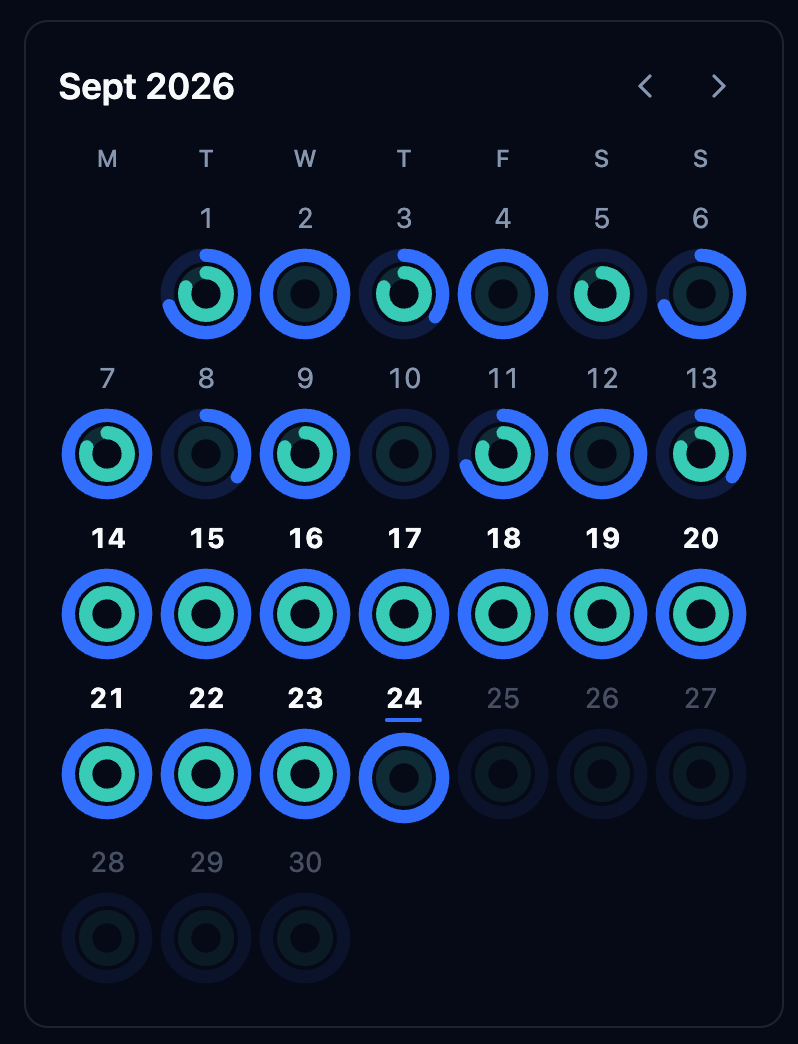
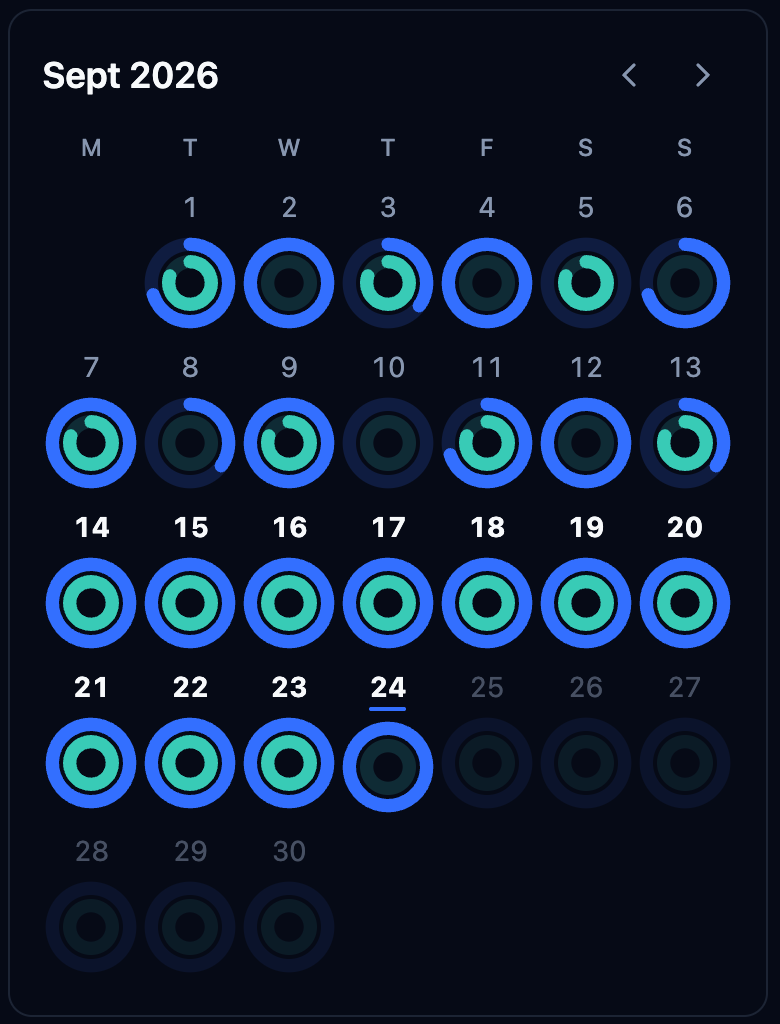
docs: add summary screenshots and align README with the code

diff --git a/README.md b/README.md
@@ -24,7 +24,14 @@ Import the stylesheet once, e.g. in your root layout:
 import "react-goal-calendar/style.css";
 ```
 
-The stylesheet contains no CSS reset (no Tailwind preflight), so your app's base styles are left alone. Components are marked `"use client"` and work in Next.js App Router server components.
+The stylesheet contains no CSS reset (no Tailwind preflight), so your app's base styles are left alone.
+Its rules sit in CSS layers (`theme`, `utilities`), and unlayered CSS always beats layered CSS, so a
+global unlayered rule such as `button { … }` or `td { padding: … }` in your app also restyles the
+components. Put such rules in a layer (e.g. `@layer base`) or scope them to your own markup.
+
+Components are marked `"use client"`, so you can render them from Next.js App Router Server
+Components. Function props (`onMonthChange`, `onSettingsClick`, `renderTooltip`, `formatDayLabel`)
+can't cross from a Server Component, so pass those from a Client Component.
 
 ## Theming
 
@@ -102,6 +109,10 @@ const goals: GcGoal[] = [
   { id: "emails", label: "Emails", target: 10 },
 ];
 
+const openGoalSettings = () => {
+  // Open your goals dialog.
+};
+
 <GcCard>
   <GcMonthCalendar
     goals={goals}
@@ -110,6 +121,8 @@ const goals: GcGoal[] = [
       "2026-09-02": { calls: 8 },
     }}
     today="2026-09-24"
+    legend
+    onSettingsClick={openGoalSettings}
   />
 </GcCard>;
 ```
@@ -166,11 +179,38 @@ const [goalsOpen, setGoalsOpen] = useState(false);
 ```
 
 `onSettingsClick` is a function, so in the Next.js App Router pass it from a Client Component. From
-a Server Component, put a Client Component button in `actions` instead.
+a Server Component, put a Client Component button in `actions` instead:
+
+```tsx
+// refresh-button.tsx
+"use client";
+import { useRouter } from "next/navigation";
+
+export function RefreshButton() {
+  const router = useRouter();
+  return (
+    <button type="button" onClick={() => router.refresh()}>
+      Refresh
+    </button>
+  );
+}
+```
+
+```tsx
+// page.tsx (Server Component): router.refresh() re-runs it, so values are recomputed
+<GcMonthCalendar
+  goals={goals}
+  values={values}
+  today={today}
+  legend
+  actions={<RefreshButton />}
+/>
+```
 
 Other `<div>` props pass through to the root, and `ref` points at it.
 
-`GcGoal` is `{ id: string; label: string; target: number; unit?: string }`.
+`GcGoal` is `{ id: string; label: string; target: number; unit?: string }`. `unit` (e.g. `"h"`)
+follows the amounts in the legend, the tooltip and the accessible text.
 
 - A ring shows `done / target` and is full once the target is reached. The accessible text keeps the
   real amount ("Calls 25 of 20").
@@ -181,7 +221,7 @@ Other `<div>` props pass through to the root, and `ref` points at it.
   All goals met." (English by default; pass `formatDayLabel` and `labels` to translate. Dates and
   numbers follow `locale`). `formatDayLabel` gets the date already formatted but raw numbers: format
   them with one `Intl.NumberFormat` created outside the callback, and check `day.future`, since
-  future days still carry their `values`.
+  future days still carry their `values`. Return `""` to use the built-in text for a day.
 
 In development, the calendar logs a `console.warn` for props it has to ignore: a malformed `today`,
 `month`, `defaultMonth`, `minMonth` or `maxMonth`, `minMonth` after `maxMonth`, an invalid
@@ -190,7 +230,8 @@ per page load. Production builds log nothing.
 
 Each day `<td>` carries these attributes when they apply, for styling or tests: `data-today` (also
 `aria-current="date"`), `data-future`, `data-complete` (every goal met), `data-empty` (nothing
-recorded).
+recorded). `data-complete` and `data-empty` are set on past days and today only, never with
+`data-future`.
 
 **Tooltip.** While the mouse is over a past day or today, or after tapping one, a small card shows
 the date and each goal's `done / target`, with a ✓ for met goals. Pass `renderTooltip` to change
@@ -210,8 +251,8 @@ pass `renderTooltip={null}` to turn it off:
 `GcDayInfo` is `{ date, today, future, complete, goals: { goal, done, target, fraction }[] }`. For
 future days `goals` holds the real `values`, even though their rings draw empty.
 
-The tooltip opens on mouse hover and on tap (touch or pen), closes on Escape or a tap elsewhere,
-and is hidden from assistive tech, because each day's accessible text already has the same
+The tooltip opens on mouse hover and on tap (touch or pen), closes on Escape, a tap elsewhere or a
+second tap on the same day, and is hidden from assistive tech, because each day's accessible text already has the same
 numbers. Keyboard and screen-reader users never see it, so don't put information only there. The
 hovered or tapped day gets `data-hovered` and the card carries `data-gc-tooltip`, for styling.
 
@@ -228,6 +269,11 @@ disagree on the date and cause a hydration mismatch.
 | `--gc-tooltip-fg`   | Tooltip text (default: `--gc-fg`)         |
 
 ### GcMonthSummary
+
+<picture>
+  <source media="(prefers-color-scheme: dark)" srcset="https://raw.githubusercontent.com/Gsync/react-goal-calendar/main/.github/assets/goal-summary-dark.png">
+  <img alt="A month summary with a two-ring donut of goal-hit percentages and four stat rows" src="https://raw.githubusercontent.com/Gsync/react-goal-calendar/main/.github/assets/goal-summary-light.png" width="380">
+</picture>
 
 A month at a glance: a donut with the share of days each goal was hit, and rows of numbers such as
 streaks. **Your app computes the numbers** and passes them per month, keyed by `YYYY-MM`; the
@@ -268,7 +314,13 @@ const [month, setMonth] = useState("2026-09");
   />
 </GcCard>
 <GcCard>
-  <GcMonthCalendar goals={goals} values={values} month={month} onMonthChange={setMonth} />
+  <GcMonthCalendar
+    goals={goals}
+    values={values}
+    month={month}
+    onMonthChange={setMonth}
+    today="2026-09-24"
+  />
 </GcCard>;
 ```
 
@@ -289,7 +341,8 @@ const [month, setMonth] = useState("2026-09");
 
 `Stat` is `{ label: ReactNode; value: ReactNode; tone?: "primary" | "success" | "warning" | "danger"
 | "ring-1" | "ring-2" | "muted" }`. Your app writes the text ("8 days"), so plurals and translation
-are yours. `tone` colours the row's dot (default `"muted"`). To name these shapes in your code, use
+are yours. `tone` colours the row's dot (default `"muted"`). A label too long for its row is cut
+off with an ellipsis; keep labels short. To name these shapes in your code, use
 `GcMonthSummaryProps["data"]`.
 
 **Ring values are fractions: pass `0.78` for 78%.** The first ring is the outer one, coloured like
@@ -303,7 +356,7 @@ elsewhere.
 
 **Tooltip.** While the mouse is over the donut, or after tapping it, a small card headed "Goal hit
 (Sep 2026)" shows each ring's label and percentage, with a ✓ for a ring at 100%. It works like the
-calendar's: it closes on Escape or a tap elsewhere, is hidden from assistive tech, and carries
+calendar's: it closes on Escape, a tap elsewhere or a second tap on the donut, is hidden from assistive tech, and carries
 `data-gc-tooltip`. Pass `renderTooltip` to change what's inside (it gets the month as `YYYY-MM` and
 each ring with its value from `data`, or `null` when it has none), return `null` to show nothing, or
 pass `renderTooltip={null}` to turn it off. By default a month without any value shows none. It uses
